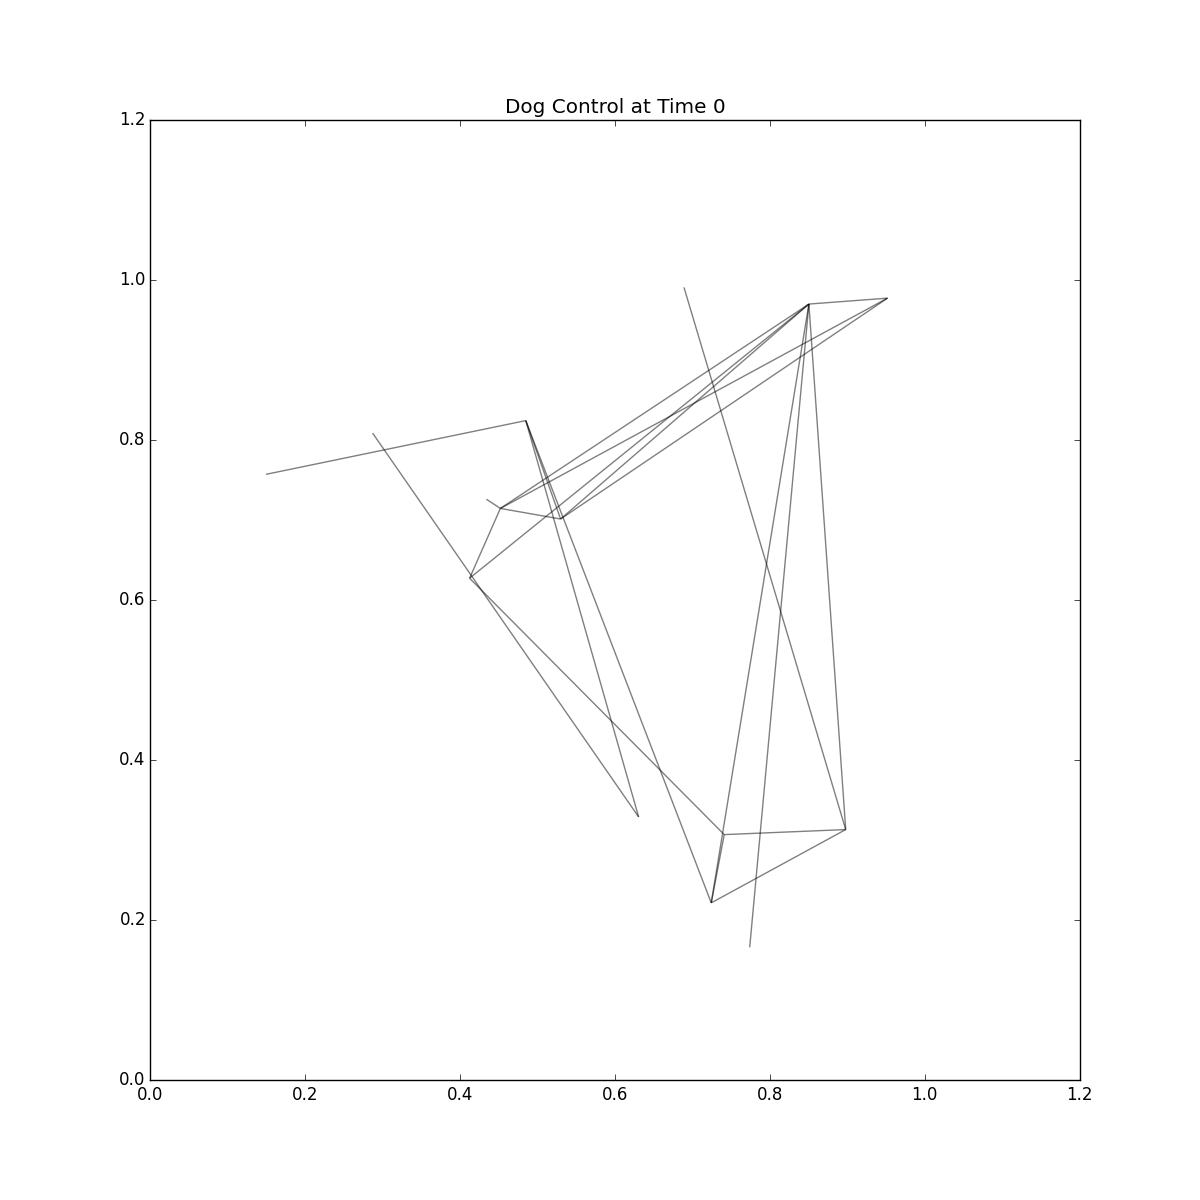
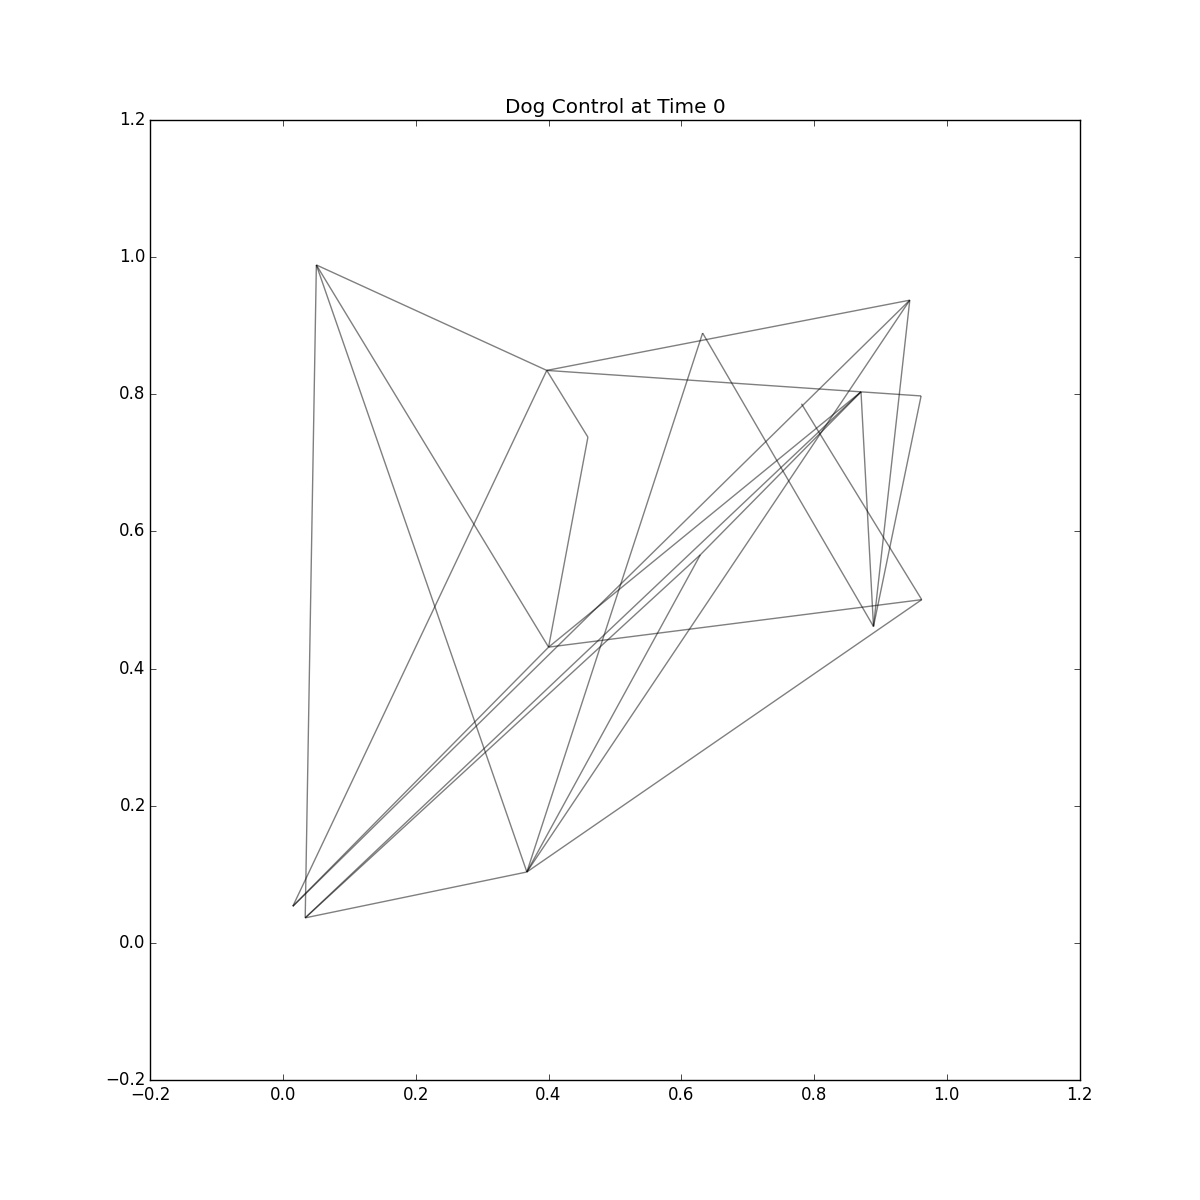
Modified parameters of simulations and updated visualization

diff --git a/Agent.py b/Agent.py
@@ -164,7 +164,7 @@ class Agent:
         self.Agent_update_stray()
 
     def Agent_new_dog(self):
-        dog = Dog(self, self.agentID)
+        dog = Dog(self, self.network, self.agentID)
         self.dogs.append(dog)
         self.num_dogs += 1
 
@@ -189,10 +189,12 @@ class Agent:
             dog.is_steralized = True
         
     def Agent_update_attitude(self):
-        delta_attitude = self.norm_education_level/(1 + 
+        SCALE = .25
+        delta_attitude = SCALE * self.norm_education_level/(1 + 
             self.num_stray_dogs)
-        delta_attitude *= self.network.networkBase.\
+        delta_attitude *= SCALE * self.network.networkBase.\
             NetworkBase_mean_attitude(self)
+        delta_attitude -= SCALE
 
         self.attitude += delta_attitude
         self.normal_attitude = self.Agent_normalize(self.attitude)
@@ -201,15 +203,19 @@ class Agent:
         self.p_acquire = self.normal_attitude/(1 + self.num_dogs)
 
     def Agent_update_probrelease(self):
-        self.p_release = np.exp(-self.normal_attitude)
+        self.p_release = np.exp(-self.normal_attitude)/2
 
     def Agent_update_education(self):
-        delta_education = self.network.networkBase.\
+        DOG_IMPACT = .0050
+        NETWORK_IMPACT = .0005
+
+        delta_education = DOG_IMPACT * self.network.networkBase.\
             NetworkBase_mean_education(self)
-        delta_education += self.network.networkBase.\
+        delta_education += NETWORK_IMPACT * self.network.networkBase.\
             dog_education * (1 - (self.norm_education_level - .5) ** 2)
 
         self.education_level += delta_education
+        print(self.education_level)
         self.norm_education_level = self.Agent_normalize(self.education_level)
 
     def Agent_update_steralize(self):

diff --git a/NetworkBase.py b/NetworkBase.py
@@ -154,7 +154,8 @@ class NetworkBase:
     # those without blue along with an opacity corresponding to SE  #
     #################################################################
     def NetworkBase_addVisualAttributes(self):
-        MAX_STRAY = 10
+        max_stray = max(max([len(self.NetworkBase_getStray(agent)) for 
+                    agent in self.Agents]), 1)
 
         # Iterate through each of the nodes present in the graph and
         # finds respective agent
@@ -162,10 +163,8 @@ class NetworkBase:
             curAgent = self.Agents[agentID]
 
             el = self.NetworkBase_getAgent(agentID).norm_education_level
-            stray = len(self.NetworkBase_getStray(agentID))/MAX_STRAY
-
-            if int(el) == 1: el = 1
-            if int(stray) == 1: stray = 1
+            stray = len(self.NetworkBase_getStray(agentID))/max_stray
+            print(stray)
 
             # Marks depressed agents as red nodes and blue otherwise
             self.G.node[agentID]['color'] = el

diff --git a/Dog.py b/Dog.py
@@ -9,8 +9,9 @@ import numpy as np
 MIN_GESTATION = 5
 
 class Dog:
-    def __init__(self, owner, loc):
+    def __init__(self, owner, network, loc):
         self.owner = owner
+        self.network = network
         self.loc = loc
         
         self.prob_rand_reproduce = random.random()
@@ -43,10 +44,10 @@ class Dog:
             if self.owner is not None:
                 self.owner.Agent_new_dog()
             else:
-                dog = Dog(None, self.loc)
-                self.owner.network.networkBase.dogs.append(dog) 
-                self.owner.network.networkBase.num_dogs += 1
-                self.owner.network.networkBase.NetworkBase_addStray(
+                dog = Dog(None, self.network, self.loc)
+                self.network.networkBase.dogs.append(dog) 
+                self.network.networkBase.num_dogs += 1
+                self.network.networkBase.NetworkBase_addStray(
                 	self.loc, dog)
             
             self.prob_rand_reproduce = 0
